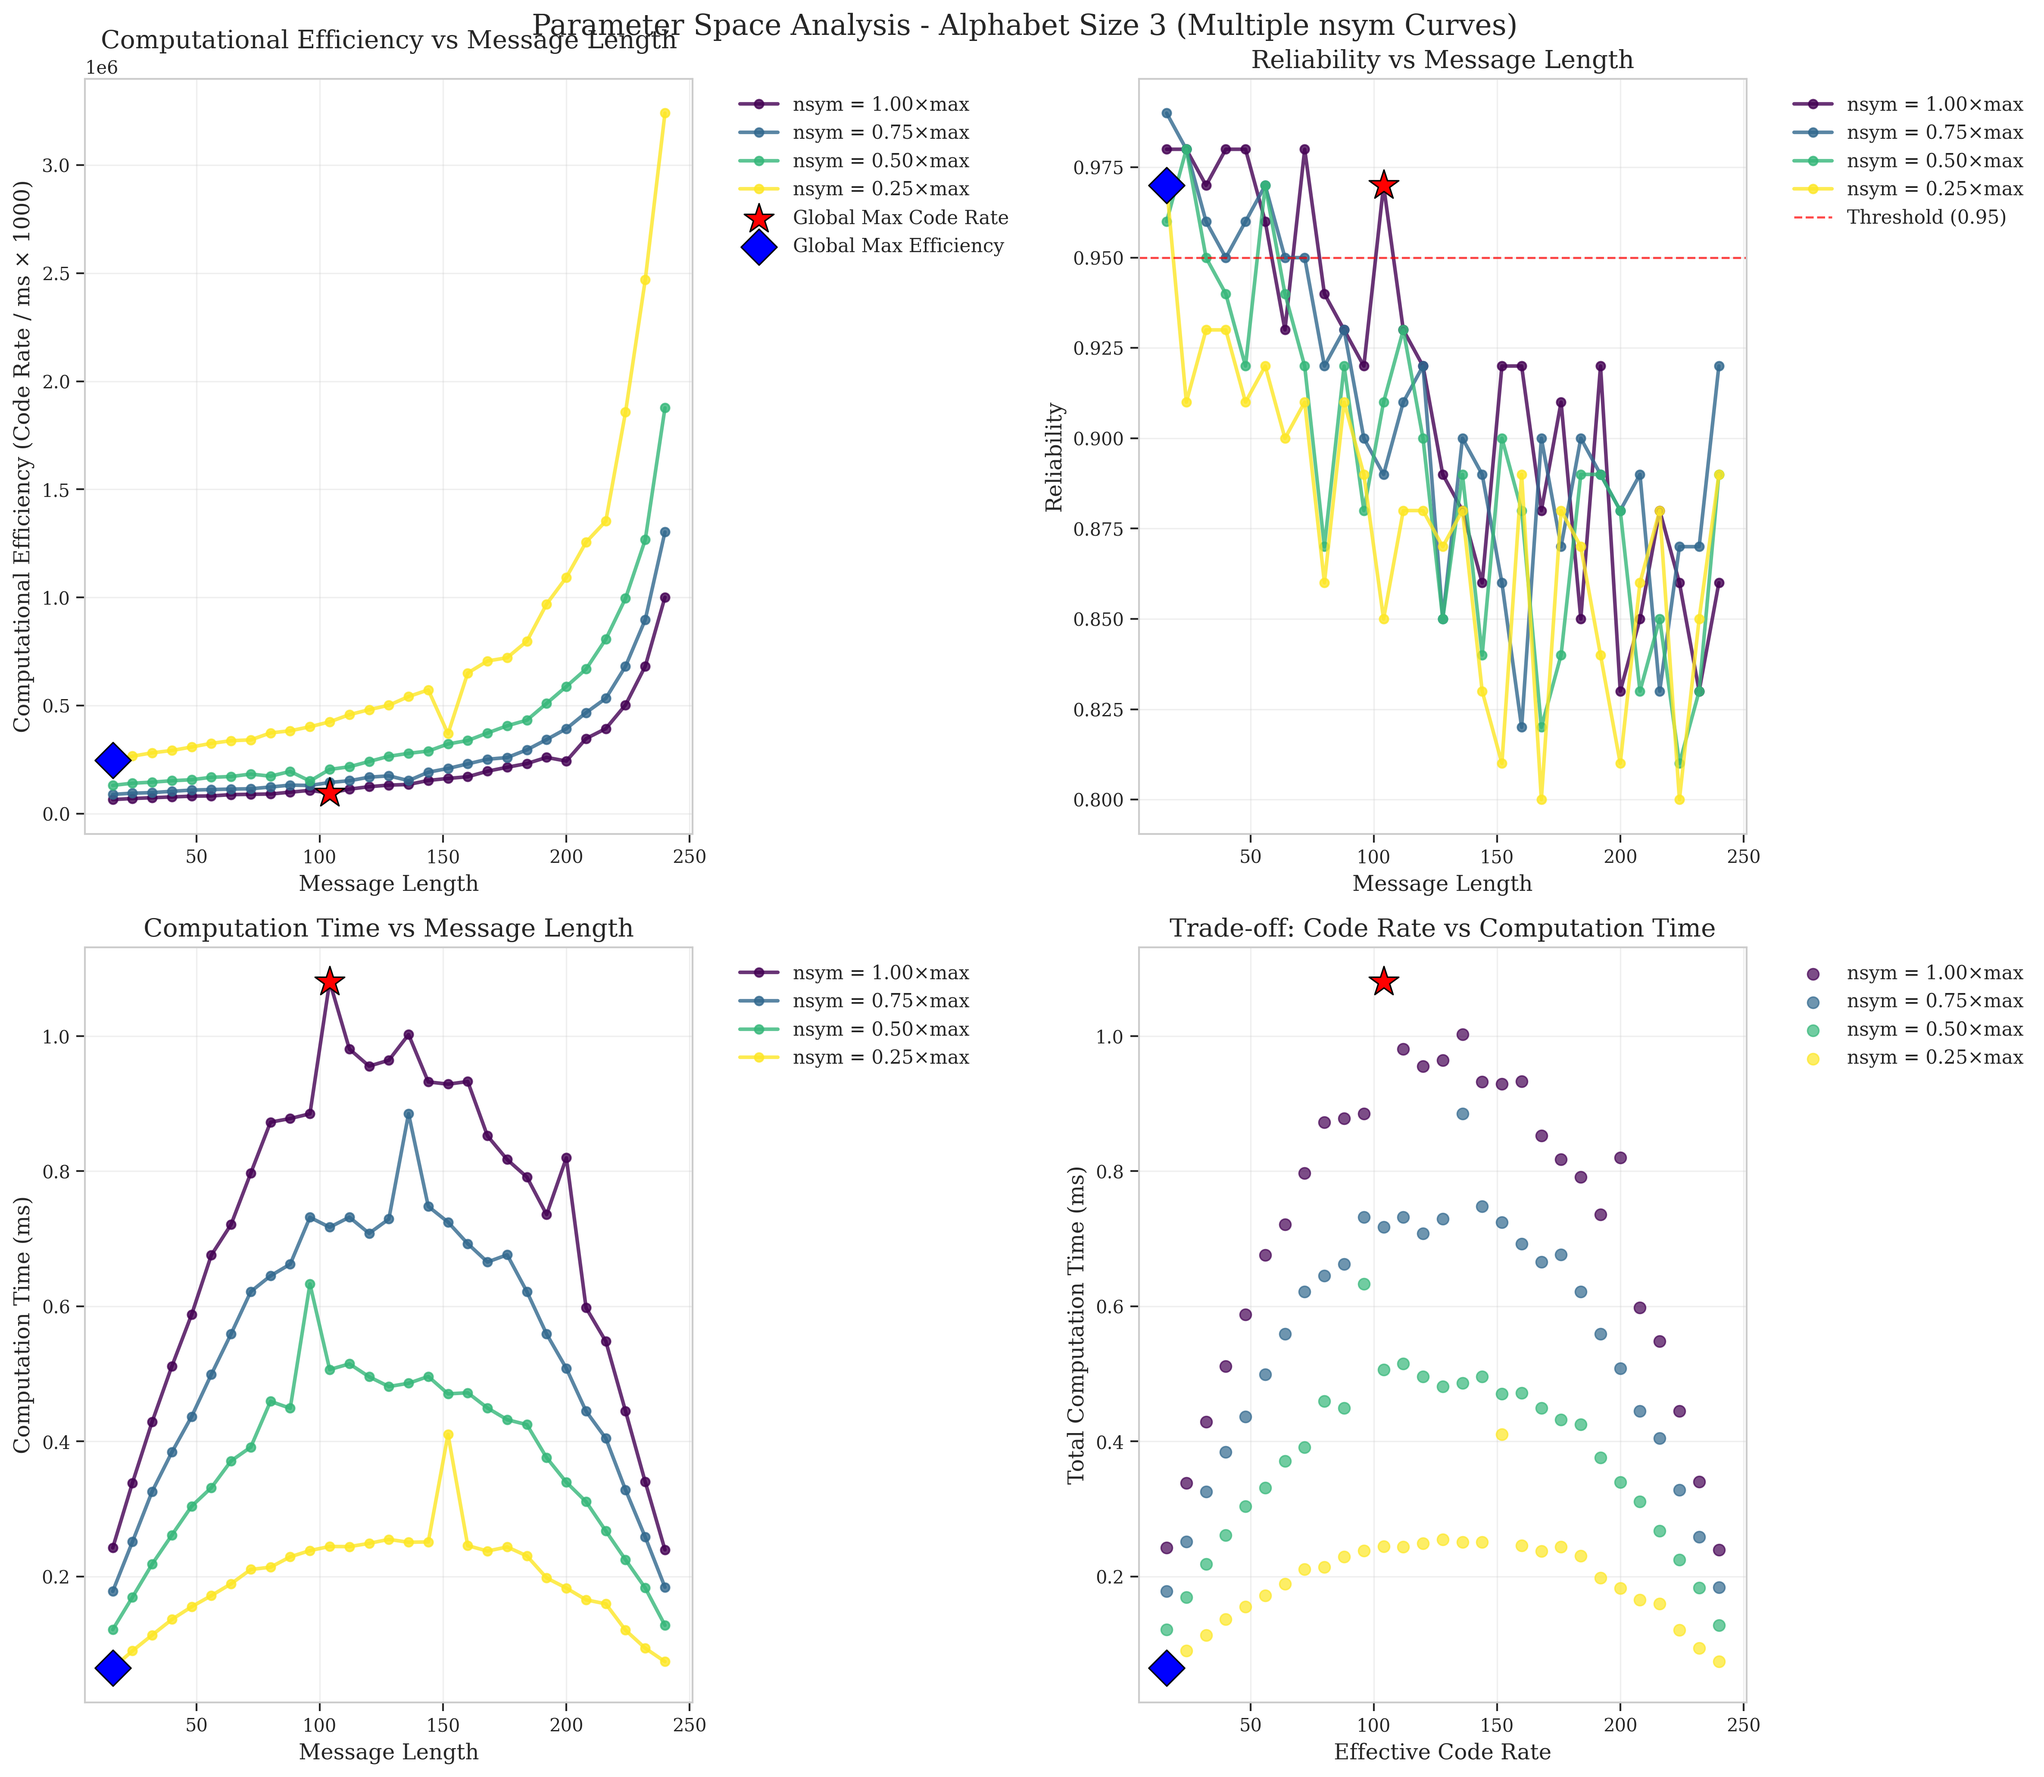
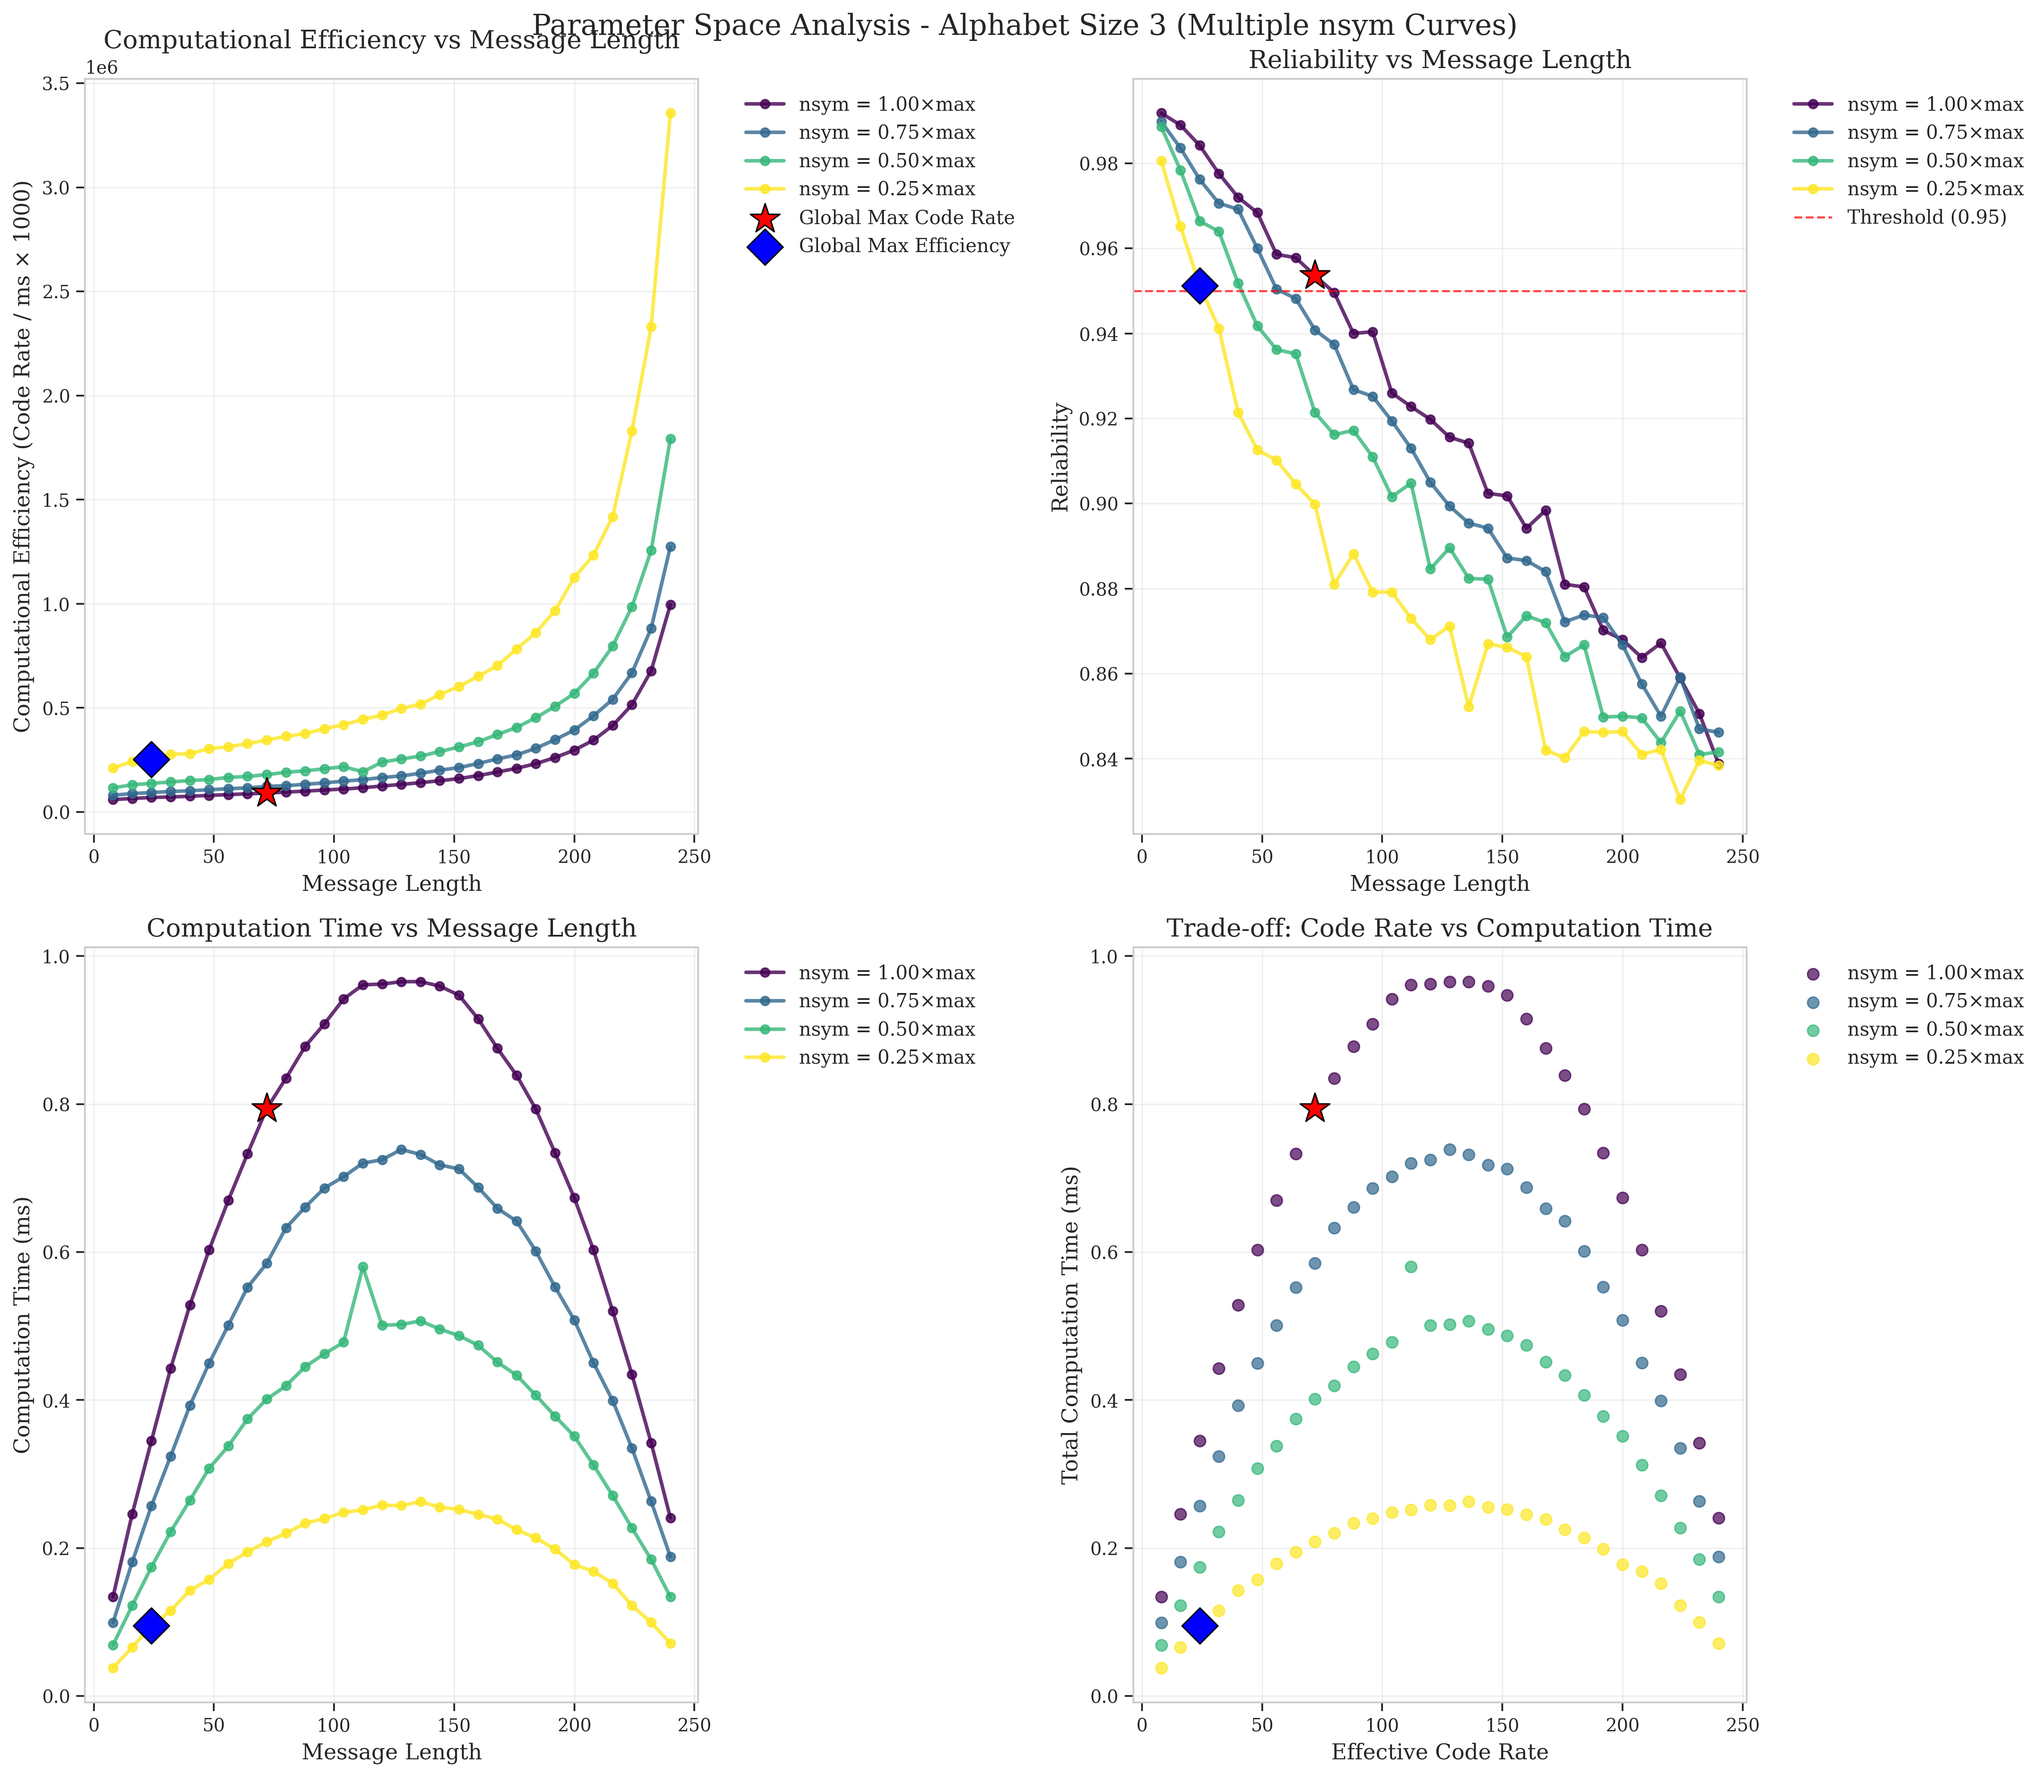
update: increased default trials for Monte Carlo simulations to improve reliability

diff --git a/system_comparison.py b/system_comparison.py
@@ -36,7 +36,7 @@ MAX_ENCODED_SIZE = 255  # message_length + nsym <= 255
 MESSAGE_LENGTHS = [i for i in range(8, MAX_ENCODED_SIZE - 8, 8)]  # Message lengths to test
 
 RELIABILITY_THRESHOLD = 0.95
-DEFAULT_TRIALS = 2000  # Monte Carlo trials
+DEFAULT_TRIALS = 5000  # Monte Carlo trials
 VERBOSE = True  # Set to True for verbose output
 
 
